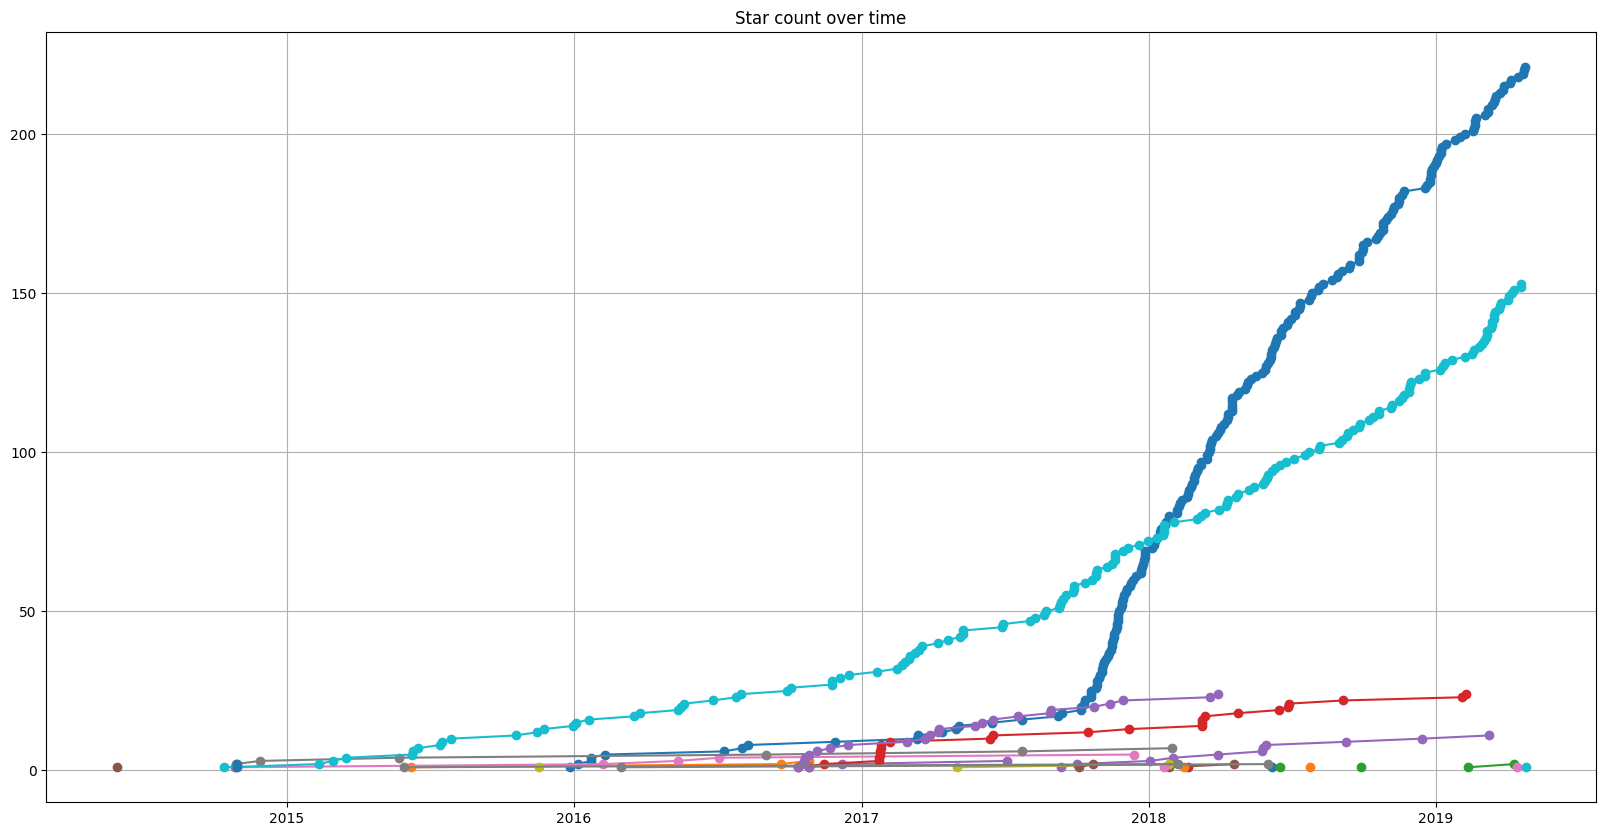
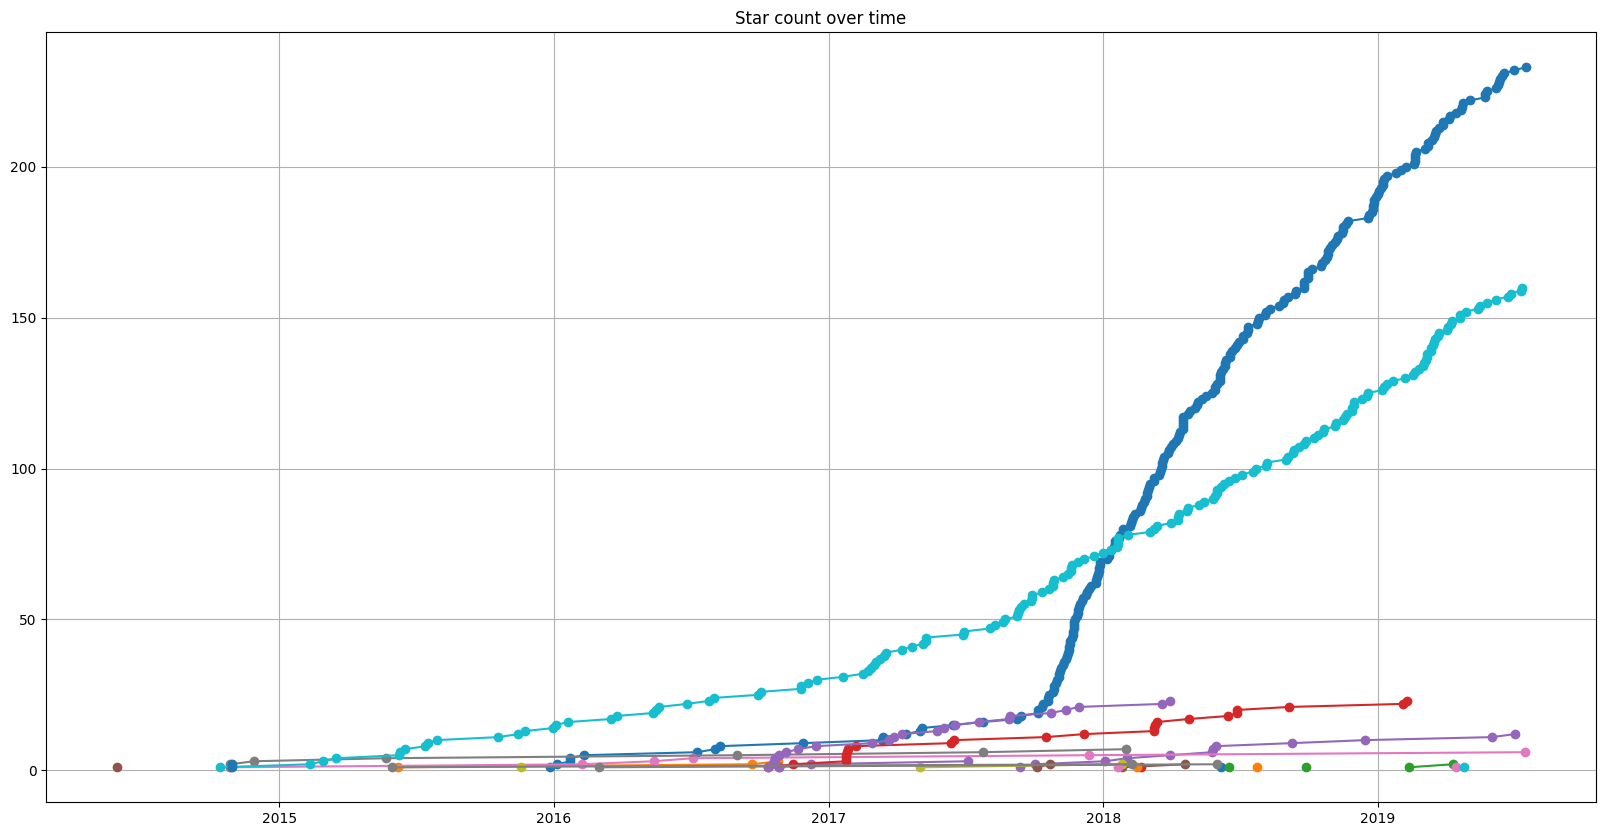
update

diff --git a/README.md b/README.md
@@ -3,7 +3,7 @@
 
 ![star plot](https://raw.github.com/FabriceSalvaire/github-map/master/star-plots/all.png)
 
-Overall stars: 477 :star:
+Overall stars: 496 :star:
 
 ## Python Packages
 
@@ -13,11 +13,11 @@ Overall stars: 477 :star:
 
    Updated on 2018-01-30
 
-* [PyDVI](https://github.com/FabriceSalvaire/PyDVI) 5 :star:</br>
+* [PyDVI](https://github.com/FabriceSalvaire/PyDVI) 6 :star:</br>
 
    PyDvi is a Python library to read and process DVI (DeVice Independent) files, the native output of LaTeX. The library provides a DVI machine as a base class which can be extended by the user and plugged to a TeX daemon in order to render contents on-the-fly. Also the source code provides a DVI viewer featuring an hardware accelerated rendering on GPU.
 
-   Updated on 2017-12-13
+   Updated on 2019-07-15
 
 * [pyglfw-cffi](https://github.com/FabriceSalvaire/pyglfw-cffi) 2 :star:</br>
 
@@ -45,17 +45,17 @@ Overall stars: 477 :star:
 
 ## Python Tools for Developers
 
-* [CodeReview](https://github.com/FabriceSalvaire/CodeReview) 221 :star:</br>
+* [CodeReview](https://github.com/FabriceSalvaire/CodeReview) 233 :star:</br>
 
    CodeReview is a Git GUI tool to perform code review (Diff Viewer) written in Python3 and Qt5.
 
-   Updated on 2019-04-24
+   Updated on 2019-07-16
 
 * [github-map](https://github.com/FabriceSalvaire/github-map)
 
    A summary of my projects on Github (using API and Python)
 
-   Updated on 2019-04-07
+   Updated on 2019-04-27
 
 * [python-memo](https://github.com/FabriceSalvaire/python-memo)
 
@@ -181,11 +181,11 @@ Overall stars: 477 :star:
 
 ## Python for Electronic
 
-* [PySpice](https://github.com/FabriceSalvaire/PySpice) 153 :star:</br>
+* [PySpice](https://github.com/FabriceSalvaire/PySpice) 160 :star:</br>
 
    Simulate electronic circuit using Python and the Ngspice / Xyce simulators
 
-   Updated on 2019-04-20
+   Updated on 2019-07-11
 
 * [PyCpuSimulator](https://github.com/FabriceSalvaire/PyCpuSimulator) 2 :star:</br>
 
@@ -235,11 +235,11 @@ Overall stars: 477 :star:
 
 ## Python for Pattern Drafting
 
-* [Patro](https://github.com/FabriceSalvaire/Patro) 11 :star:</br>
+* [Patro](https://github.com/FabriceSalvaire/Patro) 12 :star:</br>
 
    A Python library to make patterns for fashion design
 
-   Updated on 2019-04-15
+   Updated on 2019-07-02
 
 * [Patro-data](https://github.com/FabriceSalvaire/Patro-data)
 
@@ -337,11 +337,11 @@ Overall stars: 477 :star:
 
 ## Web
 
-* [redmine-improved-theme](https://github.com/FabriceSalvaire/redmine-improved-theme) 24 :star:</br>
+* [redmine-improved-theme](https://github.com/FabriceSalvaire/redmine-improved-theme) 23 :star:</br>
 
    Redmine theme forked from the vanilla Redmine theme and converted to SASS
 
-   Updated on 2019-02-27
+   Updated on 2019-05-04
 
 * [css-demo](https://github.com/FabriceSalvaire/css-demo)
 
@@ -351,11 +351,11 @@ Overall stars: 477 :star:
 
 ## Qt
 
-* [qt5-vector-graphic-shaders](https://github.com/FabriceSalvaire/qt5-vector-graphic-shaders) 24 :star:</br>
+* [qt5-vector-graphic-shaders](https://github.com/FabriceSalvaire/qt5-vector-graphic-shaders) 23 :star:</br>
 
    A Qt5 application to experiment vector graphic shaders
 
-   Updated on 2019-02-08
+   Updated on 2019-05-13
 
 ## MuPDF
 
